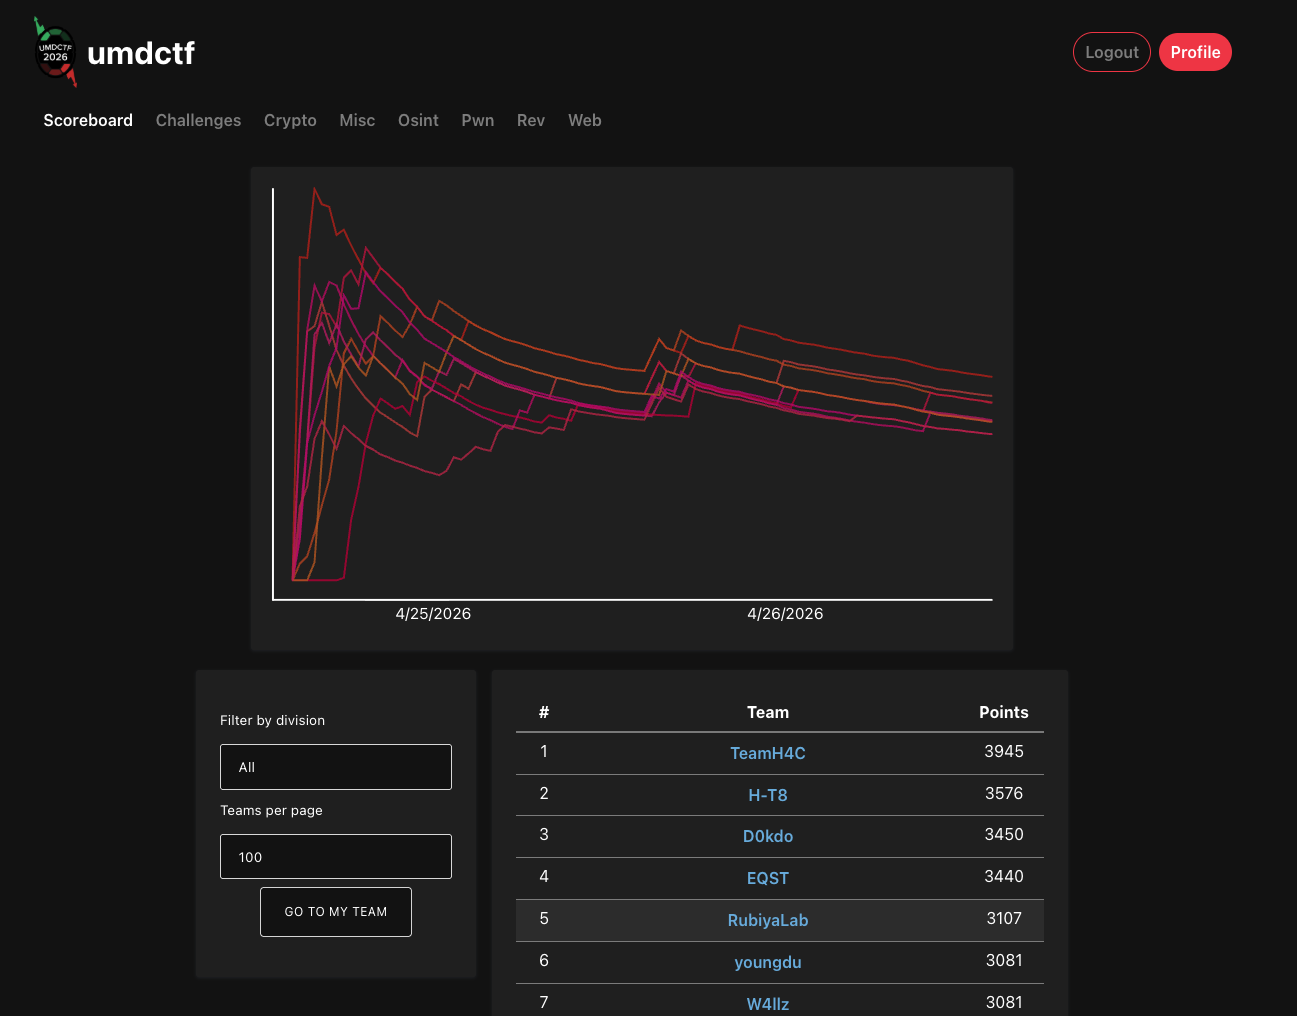
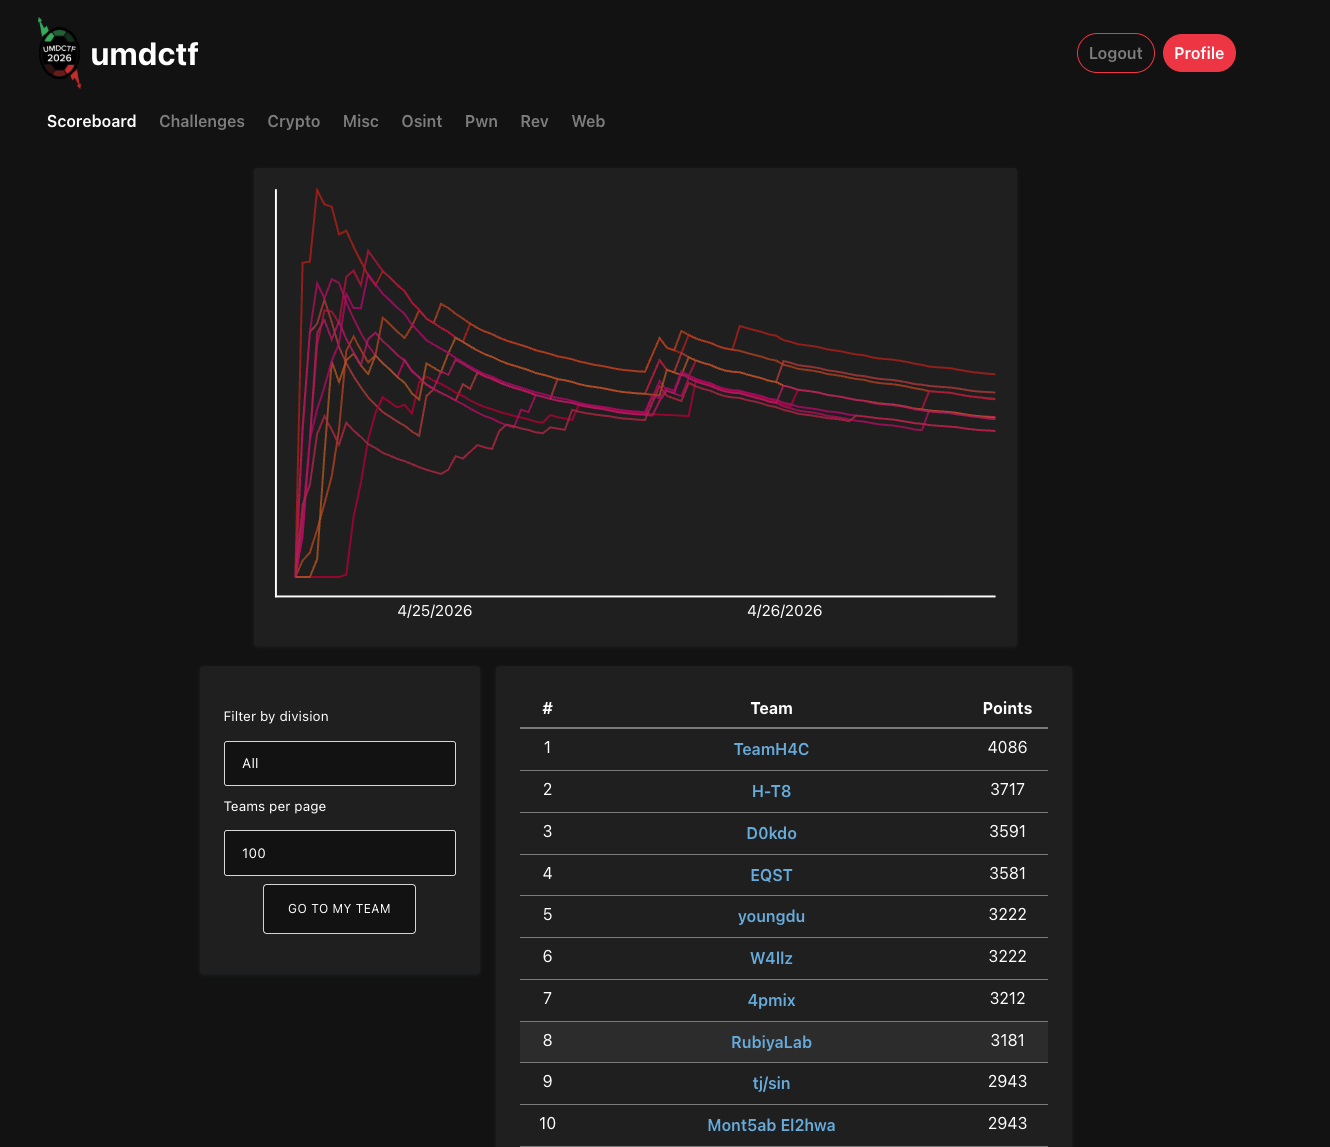
feat: add new blog posts and supporting thumbnails to the site repository

diff --git a/_ctfs/umdctf-2026.md b/_ctfs/umdctf-2026.md
@@ -1,6 +1,6 @@
 ---
 title: UMDCTF 2026
-rank: 5
+rank: 8
 date: 2026-04-24
 team: RubiyaLab
 screenshots:
